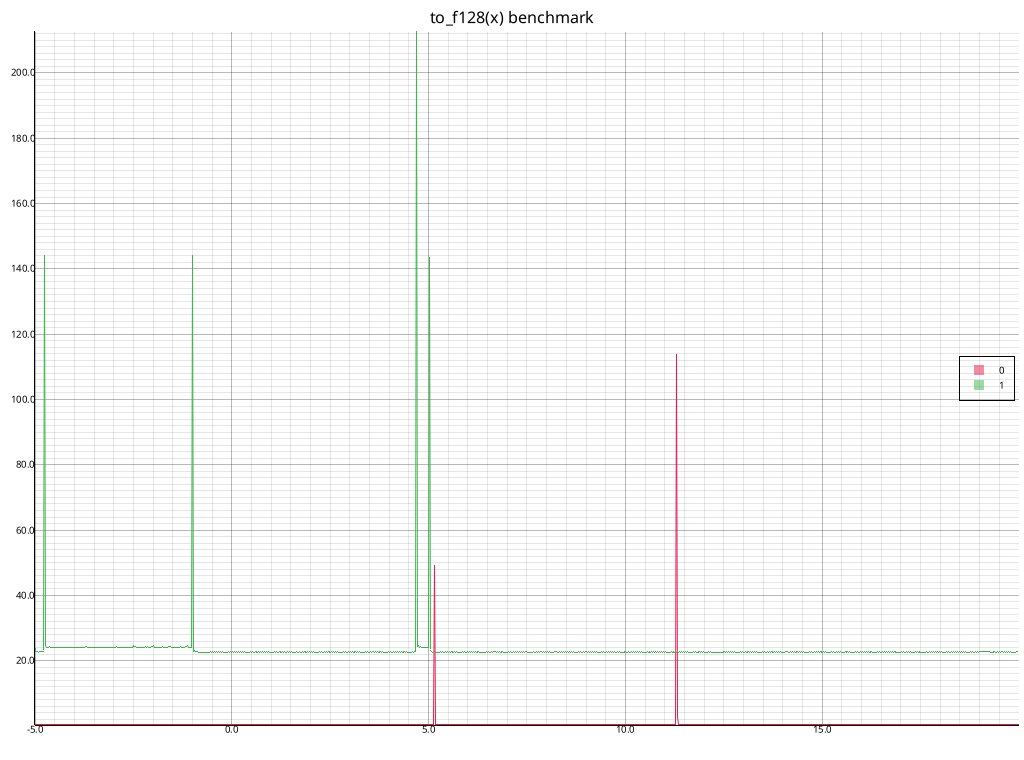
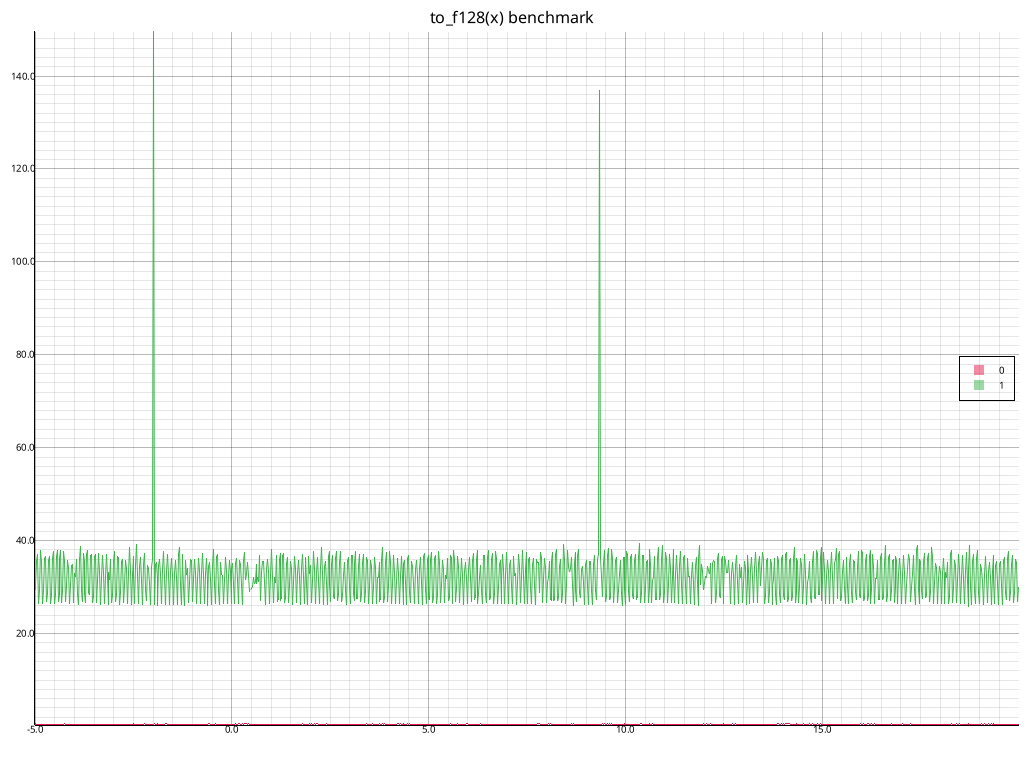
Fix infinite loop

Changed region(s): [[0.0, 0.0303, 1.0, 0.9684]]

diff --git a/src/fp/mod.rs b/src/fp/mod.rs
@@ -651,10 +651,18 @@ where
             *exp = U::zero();
             return
         }
+        let min_exp = target_exp.unwrap_or_else(U::zero);
+        if EXP_BASE.is_power_of_two()
+            && util::bitsize_of::<M>() + Self::BASE_PADDING > Self::MANTISSA_OP_SIZE
+            && let Some(min_lz) = <u32 as NumCast>::from(util::bitsize_of::<M>() + Self::BASE_PADDING - Self::MANTISSA_OP_SIZE - 1)
+            && let Some(shifts) = <usize as NumCast>::from(exp.saturating_sub(min_exp))
+        {
+            *exp = *exp - Self::shl_mantissa_without_loss(mantissa, Some(shifts), EXP_BASE.ilog2(), Some(min_lz));
+            return
+        }
         let base = M::from(EXP_BASE);
         if let Some(base) = base
         {
-            let min_exp = target_exp.unwrap_or_else(U::zero);
             while *exp > min_exp && (*mantissa >> (Self::MANTISSA_OP_SIZE - Self::BASE_PADDING)).is_zero()
             {
                 *exp = *exp - U::one();
@@ -670,6 +678,13 @@ where
             return
         }
         let max_exp = target_exp.unwrap_or_else(|| Self::max_exponent_bits());
+        if EXP_BASE.is_power_of_two()
+            && util::bitsize_of::<M>() > Self::MANTISSA_OP_SIZE
+            && let Some(max_lz) = <u32 as NumCast>::from(util::bitsize_of::<M>() - Self::MANTISSA_OP_SIZE - 1)
+            && let Some(shifts) = <usize as NumCast>::from(max_exp.saturating_sub(*exp))
+        {
+            *exp = *exp - Self::shr_mantissa_without_loss(mantissa, Some(shifts), EXP_BASE.ilog2(), Some(max_lz));
+        }
         if let Some(base) = M::from(EXP_BASE)
         {
             while *exp < max_exp && !(*mantissa >> Self::MANTISSA_OP_SIZE).is_zero()
@@ -2769,8 +2784,8 @@ where
     {
         if EXP_BASE.is_power_of_two()
         {
-            if !util::complementary_add_sub_assign(exp_offset, exp, Self::shl_mantissa_without_loss(&mut mantissa1, None, EXP_BASE.ilog2())).is_ok()
-                || !util::complementary_add_sub_assign(exp_offset, exp, Self::shr_mantissa_without_loss(&mut mantissa2, None, EXP_BASE.ilog2())).is_ok()
+            if !util::complementary_add_sub_assign(exp_offset, exp, Self::shl_mantissa_without_loss(&mut mantissa1, None, EXP_BASE.ilog2(), None)).is_ok()
+                || !util::complementary_add_sub_assign(exp_offset, exp, Self::shr_mantissa_without_loss(&mut mantissa2, None, EXP_BASE.ilog2(), None)).is_ok()
             {
                 return Err(Self::infinity())
             }
@@ -2808,8 +2823,8 @@ where
     fn mantissa_div(mut mantissa1: U, mut mantissa2: U, exp: &mut U, exp_offset: &mut U) -> Result<U, Self>
     {
         let mut shifts = FRAC_SIZE;
-        shifts -= Self::shl_mantissa_without_loss::<_, usize>(&mut mantissa1, Some(shifts), 1);
-        shifts -= Self::shr_mantissa_without_loss::<_, usize>(&mut mantissa2, Some(shifts), 1);
+        shifts -= Self::shl_mantissa_without_loss::<_, usize>(&mut mantissa1, Some(shifts), 1, None);
+        shifts -= Self::shr_mantissa_without_loss::<_, usize>(&mut mantissa2, Some(shifts), 1, None);
         let mut mantissa = Self::integral_div(mantissa1, mantissa2, exp, exp_offset)?;
         Self::mantissa_shl(&mut mantissa, shifts, exp, Some(exp_offset))?;
         Ok(mantissa)
@@ -2825,7 +2840,7 @@ where
         {
             return Ok(())
         }
-        shifts -= Self::shl_mantissa_without_loss::<_, usize>(mantissa, Some(shifts), 1);
+        shifts -= Self::shl_mantissa_without_loss::<_, usize>(mantissa, Some(shifts), 1, None);
         if EXP_BASE.is_power_of_two() && let Some(mut change) = U::from(shifts/EXP_BASE.ilog2() as usize)
         {
             if let Some(ofs) = exp_offset
@@ -2940,16 +2955,21 @@ where
         }
     }
 
-    fn shr_mantissa_without_loss<M: AnyInt, I: UInt>(mantissa: &mut M, shifts: Option<usize>, quanta: u32) -> I
+    fn shr_mantissa_without_loss<M: AnyInt, I: UInt>(mantissa: &mut M, shifts: Option<usize>, quanta: u32, max_lz: Option<u32>) -> I
     {
         if !mantissa.is_zero()
         {
             let mut i: u32 = mantissa.trailing_zeros();
+            if let Some(mlz) = max_lz
+            {
+                let lz = mantissa.leading_zeros();
+                i = i.min(mlz.saturating_sub(lz))
+            }
             if let Some(s) = shifts.and_then(<u32 as NumCast>::from)
             {
                 i = i.min(s)
             }
-            i = i - i % quanta;
+            i -= i % quanta;
             if i != 0 && let Some(o) = I::from(i/quanta)
             {
                 *mantissa = *mantissa >> i;
@@ -2959,11 +2979,11 @@ where
         I::zero()
     }
 
-    fn shl_mantissa_without_loss<M: AnyInt, I: UInt>(mantissa: &mut M, shifts: Option<usize>, quanta: u32) -> I
+    fn shl_mantissa_without_loss<M: AnyInt, I: UInt>(mantissa: &mut M, shifts: Option<usize>, quanta: u32, min_lz: Option<u32>) -> I
     {
         if !mantissa.is_zero()
         {
-            let mut i: u32 = mantissa.leading_zeros() - util::is_signed::<M>() as u32;
+            let mut i: u32 = mantissa.leading_zeros().saturating_sub(min_lz.unwrap_or(util::is_signed::<M>() as u32));
             if let Some(s) = shifts.and_then(<u32 as NumCast>::from)
             {
                 i = i.min(s)
@@ -2986,8 +3006,8 @@ where
         }
         if EXP_BASE.is_power_of_two()
         {
-            *exp_offset = *exp_offset + Self::shr_mantissa_without_loss(&mut mantissa1, None, EXP_BASE.ilog2());
-            *exp_offset = *exp_offset + Self::shr_mantissa_without_loss(&mut mantissa2, None, EXP_BASE.ilog2());
+            *exp_offset = *exp_offset + Self::shr_mantissa_without_loss(&mut mantissa1, None, EXP_BASE.ilog2(), None);
+            *exp_offset = *exp_offset + Self::shr_mantissa_without_loss(&mut mantissa2, None, EXP_BASE.ilog2(), None);
         }
         loop
         {
@@ -3012,7 +3032,7 @@ where
         }
         if EXP_BASE.is_power_of_two()
         {
-            let shift = Self::shr_mantissa_without_loss::<_, U>(&mut mantissa, None, EXP_BASE.ilog2());
+            let shift = Self::shr_mantissa_without_loss::<_, U>(&mut mantissa, None, EXP_BASE.ilog2(), None);
             *exp_offset = *exp_offset + (shift + shift);
         }
         loop
@@ -3055,8 +3075,8 @@ where
     fn mantissa_mul(mut mantissa1: U, mut mantissa2: U, exp: &mut U, exp_offset: &mut U) -> Result<U, Self>
     {
         let mut shifts = FRAC_SIZE;
-        shifts -= Self::shr_mantissa_without_loss::<_, usize>(&mut mantissa1, Some(shifts), 1);
-        shifts -= Self::shr_mantissa_without_loss::<_, usize>(&mut mantissa2, Some(shifts), 1);
+        shifts -= Self::shr_mantissa_without_loss::<_, usize>(&mut mantissa1, Some(shifts), 1, None);
+        shifts -= Self::shr_mantissa_without_loss::<_, usize>(&mut mantissa2, Some(shifts), 1, None);
         let mut mantissa = Self::integral_mul(mantissa1, mantissa2, exp_offset);
         match Self::mantissa_shr(&mut mantissa, shifts, exp, Some(exp_offset))
         {
@@ -3073,7 +3093,7 @@ where
     fn mantissa_squared(mut mantissa: U, exp: &mut U, exp_offset: &mut U) -> Result<U, Self>
     {
         let mut shifts = FRAC_SIZE;
-        shifts -= Self::shr_mantissa_without_loss::<_, usize>(&mut mantissa, Some(shifts/2), 1)*2;
+        shifts -= Self::shr_mantissa_without_loss::<_, usize>(&mut mantissa, Some(shifts/2), 1, None)*2;
         mantissa = Self::integral_squared(mantissa, exp_offset);
         match Self::mantissa_shr(&mut mantissa, shifts, exp, Some(exp_offset))
         {
@@ -3093,7 +3113,7 @@ where
         {
             return Ok(())
         }
-        shifts -= Self::shr_mantissa_without_loss::<_, usize>(mantissa, Some(shifts), 1);
+        shifts -= Self::shr_mantissa_without_loss::<_, usize>(mantissa, Some(shifts), 1, None);
         if EXP_BASE.is_power_of_two() && let Some(mut change) = U::from(shifts/EXP_BASE.ilog2() as usize)
         {
             if let Some(ofs) = &mut exp_offset
@@ -3345,7 +3365,7 @@ where
             {
                 match if let Some(m2) = &mut mantissa2
                 {
-                    Self::mantissa_pairs_div_base(mantissa1, *m2).map(|()| U::zero())
+                    Self::mantissa_pairs_div_base(mantissa1, *m2).map(|()| U::one())
                 }
                 else
                 {

diff --git a/src/lib.rs b/src/lib.rs
@@ -85,7 +85,7 @@
 //! assert_eq!(two + two, four);
 //! ```
 
-use num_traits::{Bounded, CheckedNeg, CheckedShl, CheckedShr, PrimInt, Signed, Unsigned};
+use num_traits::{Num, Bounded, CheckedNeg, CheckedShl, CheckedShr, PrimInt, Signed, Unsigned};
 
 moddef::moddef!(
     pub mod {
@@ -111,7 +111,7 @@ moddef::moddef!(
 #[cfg(test)]
 extern crate test;
 
-pub trait AnyInt = Bounded + PrimInt + CheckedShl + CheckedShr;
+pub trait AnyInt = Num + Bounded + PrimInt + CheckedShl + CheckedShr;
 pub trait UInt = Unsigned + AnyInt + core::fmt::Debug + core::fmt::Binary;
 pub trait Int = Signed + AnyInt + CheckedNeg;
 
@@ -696,16 +696,63 @@ mod tests
     #[bench]
     fn bench_to_uint_wrapping(bencher: &mut Bencher)
     {
-        let mut n = (u16::MIN..=u16::MAX)
-            .map(|n| (F::from_uint(n), n))
-            .collect::<Vec<_>>()
-            .into_iter()
-            .cycle();
+        bench_op1::<F, _>(bencher, |x| x.to_uint_wrapping::<u8>());
+        bench_op1::<F, _>(bencher, |x| x.to_uint_wrapping::<u16>());
+        bench_op1::<F, _>(bencher, |x| x.to_uint_wrapping::<u32>());
+        bench_op1::<F, _>(bencher, |x| x.to_uint_wrapping::<u64>());
+        bench_op1::<F, _>(bencher, |x| x.to_uint_wrapping::<u128>());
+        bench_op1_integers::<F, _>(bencher, |x| x.to_uint_wrapping::<u8>());
+        bench_op1_integers::<F, _>(bencher, |x| x.to_uint_wrapping::<u16>());
+        bench_op1_integers::<F, _>(bencher, |x| x.to_uint_wrapping::<u32>());
+        bench_op1_integers::<F, _>(bencher, |x| x.to_uint_wrapping::<u64>());
+        bench_op1_integers::<F, _>(bencher, |x| x.to_uint_wrapping::<u128>());
+    }
 
-        bencher.iter(|| {
-            let (f, n) = n.next().unwrap();
-            f.to_uint::<u8>()
-        });
+    #[bench]
+    fn bench_to_int_wrapping(bencher: &mut Bencher)
+    {
+        bench_op1::<F, _>(bencher, |x| x.to_int_wrapping::<i8>());
+        bench_op1::<F, _>(bencher, |x| x.to_int_wrapping::<i16>());
+        bench_op1::<F, _>(bencher, |x| x.to_int_wrapping::<i32>());
+        bench_op1::<F, _>(bencher, |x| x.to_int_wrapping::<i64>());
+        bench_op1::<F, _>(bencher, |x| x.to_int_wrapping::<i128>());
+        bench_op1_integers::<F, _>(bencher, |x| x.to_int_wrapping::<i8>());
+        bench_op1_integers::<F, _>(bencher, |x| x.to_int_wrapping::<i16>());
+        bench_op1_integers::<F, _>(bencher, |x| x.to_int_wrapping::<i32>());
+        bench_op1_integers::<F, _>(bencher, |x| x.to_int_wrapping::<i64>());
+        bench_op1_integers::<F, _>(bencher, |x| x.to_int_wrapping::<i128>());
+    }
+
+    #[bench]
+    fn bench_from_int(bencher: &mut Bencher)
+    {
+        let mut x8 = (i8::MIN..=i8::MAX).cycle();
+        let mut x16 = (i16::MIN..=i16::MAX).cycle();
+        let mut x32 = (i32::MIN..=i32::MAX).cycle();
+        let mut x64 = (i64::MIN..=i64::MAX).cycle();
+        let mut x128 = (i128::MIN..=i128::MAX).cycle();
+
+        bencher.iter(|| F::from_int(x8.next().unwrap()));
+        bencher.iter(|| F::from_int(x16.next().unwrap()));
+        bencher.iter(|| F::from_int(x32.next().unwrap()));
+        bencher.iter(|| F::from_int(x64.next().unwrap()));
+        bencher.iter(|| F::from_int(x128.next().unwrap()));
+    }
+
+    #[bench]
+    fn bench_from_uint(bencher: &mut Bencher)
+    {
+        let mut x8 = (u8::MIN..=u8::MAX).cycle();
+        let mut x16 = (u16::MIN..=u16::MAX).cycle();
+        let mut x32 = (u32::MIN..=u32::MAX).cycle();
+        let mut x64 = (u64::MIN..=u64::MAX).cycle();
+        let mut x128 = (u128::MIN..=u128::MAX).cycle();
+
+        bencher.iter(|| F::from_uint(x8.next().unwrap()));
+        bencher.iter(|| F::from_uint(x16.next().unwrap()));
+        bencher.iter(|| F::from_uint(x32.next().unwrap()));
+        bencher.iter(|| F::from_uint(x64.next().unwrap()));
+        bencher.iter(|| F::from_uint(x128.next().unwrap()));
     }
 
     #[test]

diff --git a/src/fp/ops/mul_add.rs b/src/fp/ops/mul_add.rs
@@ -84,7 +84,8 @@ where
                                 Err(done) => return done.with_sign(s0) + b
                             };
                             
-                            let mut e = match e.checked_add(&o)
+                            Self::normalize_mantissa_down(&mut e, &mut f, None);
+                            e = match e.checked_add(&o)
                             {
                                 Some(e) => e,
                                 None => return Self::infinity().with_sign(s0)
@@ -155,6 +156,6 @@ mod test
     fn bench_mul_add(bencher: &mut Bencher)
     {
         test_mul_add();
-        tests::bench_op3::<F, _>(bencher, MulAdd::mul_add)
+        tests::bench_op3::<F, _>(bencher, F::mul_add)
     }
 }

diff --git a/src/fp/ops/mul.rs b/src/fp/ops/mul.rs
@@ -18,7 +18,7 @@ where
             {
                 if self.to_bits() == rhs.to_bits()
                 {
-                    return self.squared()
+                    //return self.squared()
                 }
                 let s = self.is_sign_negative()^rhs.is_sign_negative();
                 match (self.classify(), rhs.classify())
